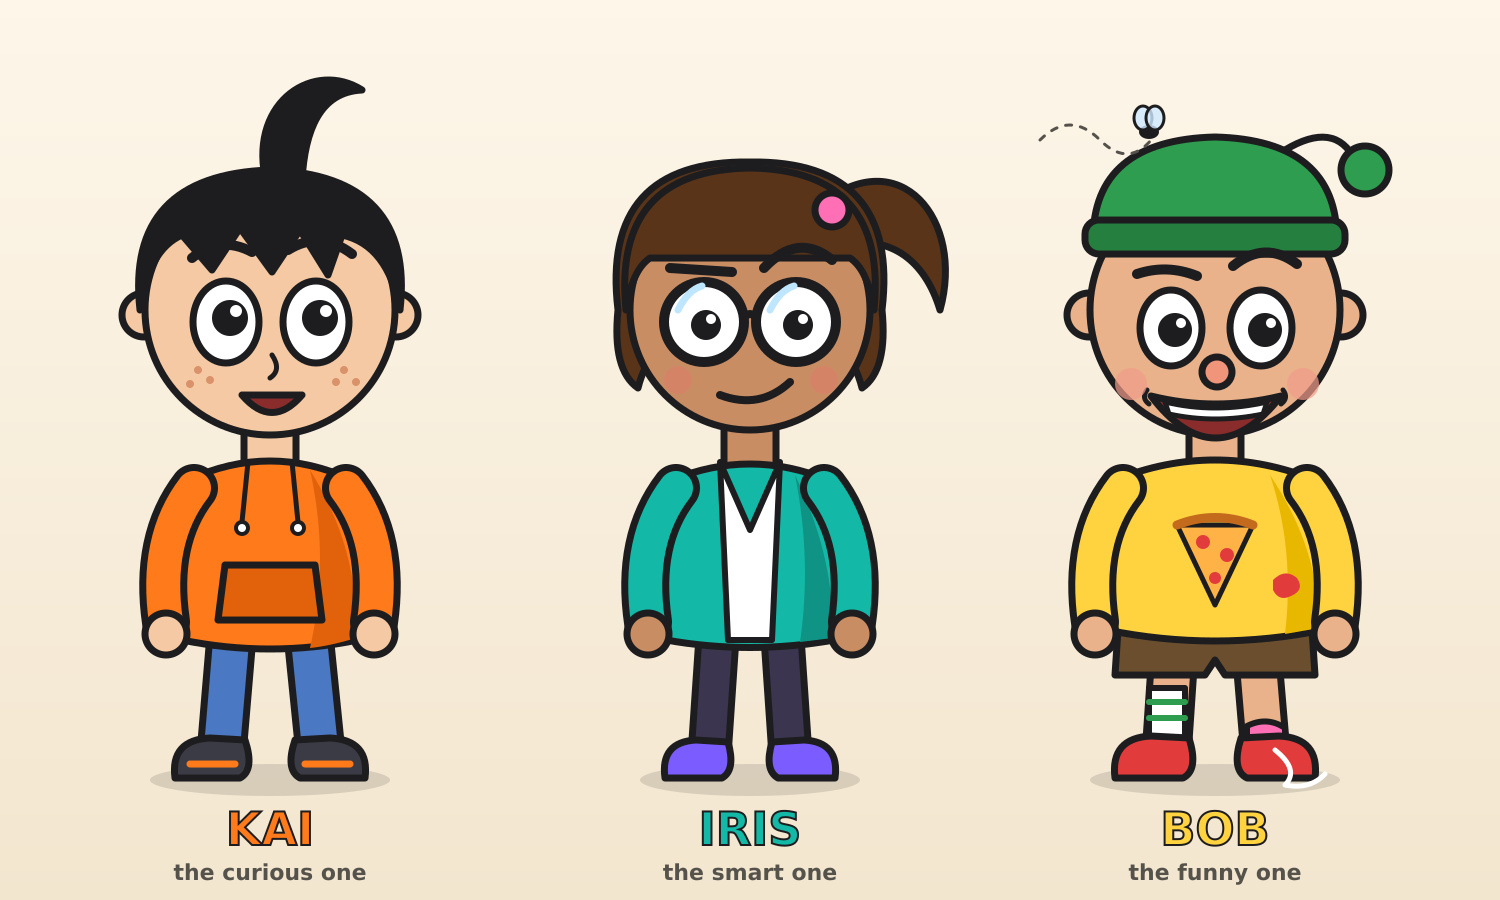
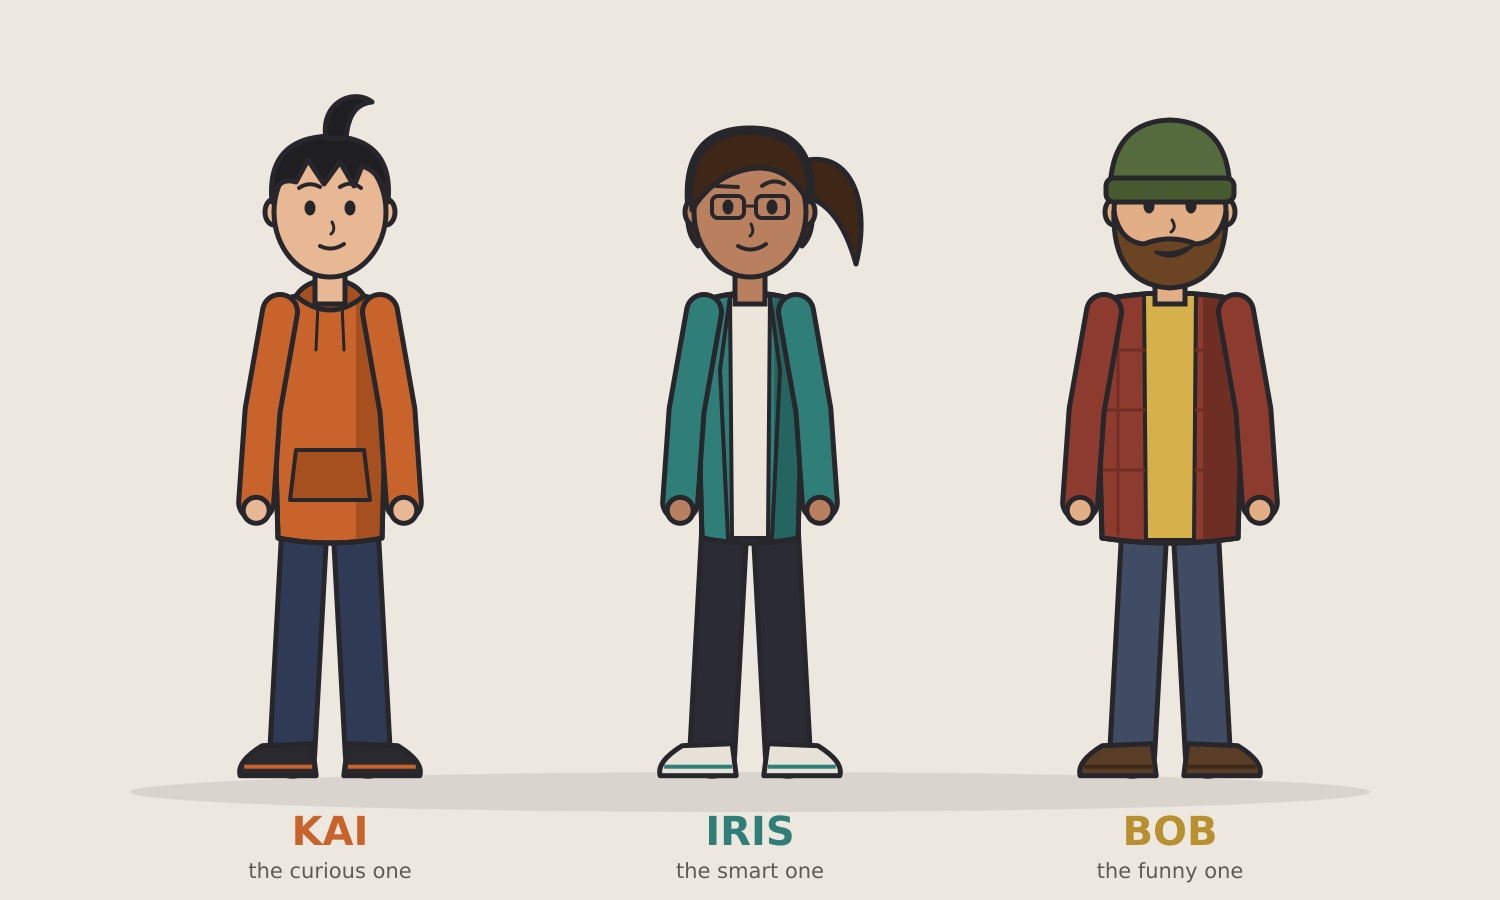
Adult redesign of the trio, drawn by code
Claude-Session: https://claude.ai/code/session_012EPCorERkmRy7kAdAThfec

diff --git a/maker/characters.py b/maker/characters.py
@@ -1,0 +1,188 @@
+"""Draw the main cast as SVG, from one definition per character.
+
+Every scene uses this same code, so KAI, IRIS and BOB always look identical.
+Poses only move the arms and legs; faces, hair and clothes never change.
+
+Usage:  python -m maker.characters out.svg      (draws the cast line-up)
+"""
+from __future__ import annotations
+
+import math
+import sys
+
+INK = "#26262b"      # outline colour
+LW = 5               # outline width
+
+CAST = {
+    "KAI": {
+        "role": "the curious one",
+        "skin": "#e8b894", "hair": "#1f1f22",
+        "top": "#c8642b", "top_shade": "#a6501f",
+        "pants": "#2f3b55", "shoes": "#2a2a2e", "shoe_accent": "#c8642b",
+        "half_w": 58, "label": "#c8642b",
+    },
+    "IRIS": {
+        "role": "the smart one",
+        "skin": "#b98060", "hair": "#3e2716",
+        "top": "#2f7f78", "top_shade": "#25655f", "inner": "#ece6da",
+        "pants": "#2b2b33", "shoes": "#e7e2d8", "shoe_accent": "#2f7f78",
+        "half_w": 54, "label": "#2f7f78",
+    },
+    "BOB": {
+        "role": "the funny one",
+        "skin": "#e2ae86", "hair": "#6b4423",
+        "top": "#8c3b2e", "top_shade": "#6f2e24", "inner": "#d6b04a",
+        "beanie": "#556b3d", "beanie_band": "#46592f",
+        "pants": "#3f4c63", "shoes": "#5a3d26", "shoe_accent": "#3b2818",
+        "half_w": 74, "label": "#b8902f",
+    },
+}
+
+# Pose = joint angles in degrees (0 = straight down, positive = outward from body).
+POSES = {
+    "stand": {"upper": 10, "fore": 4, "hip": 3},
+}
+
+
+def _limb(points, colour, width):
+    d = "M" + " L".join(f"{x:.1f} {y:.1f}" for x, y in points)
+    return (f'<path d="{d}" fill="none" stroke="{INK}" stroke-width="{width + 2 * LW}" '
+            f'stroke-linecap="round" stroke-linejoin="round"/>'
+            f'<path d="{d}" fill="none" stroke="{colour}" stroke-width="{width}" '
+            f'stroke-linecap="round" stroke-linejoin="round"/>')
+
+
+def _arm(side, c, pose):
+    sx, sy = side * (c["half_w"] - 8), -478
+    a1 = math.radians(pose["upper"])
+    ex, ey = sx + side * 100 * math.sin(a1), sy + 100 * math.cos(a1)
+    a2 = math.radians(pose["fore"])
+    hx, hy = ex + side * 92 * math.sin(a2), ey + 92 * math.cos(a2)
+    return (_limb([(sx, sy), (ex, ey), (hx, hy)], c["top"], 30)
+            + f'<circle cx="{hx:.1f}" cy="{hy + 8:.1f}" r="13" fill="{c["skin"]}" stroke="{INK}" stroke-width="{LW}"/>')
+
+
+def _leg(side, c, pose):
+    hx, hy = side * 26, -255
+    a = math.radians(pose["hip"])
+    fx, fy = hx + side * 225 * math.sin(a), hy + 225 * math.cos(a)
+    shoe = (f'<path d="M{fx - side * 20:.1f} {fy - 16:.1f} L{fx + side * 30:.1f} {fy - 14:.1f} '
+            f'Q{fx + side * 56:.1f} {fy + 2:.1f} {fx + side * 52:.1f} {fy + 16:.1f} '
+            f'L{fx - side * 24:.1f} {fy + 16:.1f} Z" fill="{c["shoes"]}" stroke="{INK}" '
+            f'stroke-width="{LW}" stroke-linejoin="round"/>'
+            f'<path d="M{fx - side * 20:.1f} {fy + 7:.1f} L{fx + side * 48:.1f} {fy + 7:.1f}" '
+            f'stroke="{c["shoe_accent"]}" stroke-width="4"/>')
+    return _limb([(hx, hy), (fx, fy - 6)], c["pants"], 40) + shoe
+
+
+def _torso(c):
+    w = c["half_w"]
+    body = (f"M{-w + 16} -492 Q{-w} -490 {-w} -470 L{-w + 6} -252 Q0 -242 {w - 6} -252 "
+            f"L{w} -470 Q{w} -490 {w - 16} -492 Q0 -502 {-w + 16} -492 Z")
+    shade = f"M{w * 0.45:.0f} -496 Q{w} -490 {w} -470 L{w - 6} -252 Q{w * 0.6:.0f} -248 {w * 0.45:.0f} -247 Z"
+    return (f'<path d="{body}" fill="{c["top"]}" stroke="{INK}" stroke-width="{LW}" stroke-linejoin="round"/>'
+            f'<path d="{shade}" fill="{c["top_shade"]}"/>'
+            f'<path d="{body}" fill="none" stroke="{INK}" stroke-width="{LW}" stroke-linejoin="round"/>')
+
+
+def _eyes(dx=20, y=-582):
+    return "".join(f'<ellipse cx="{s * dx}" cy="{y}" rx="5.5" ry="7.5" fill="{INK}"/>' for s in (-1, 1))
+
+
+def _line(d, w=4):
+    return f'<path d="{d}" fill="none" stroke="{INK}" stroke-width="{w}" stroke-linecap="round" stroke-linejoin="round"/>'
+
+
+def _head(c, extra_back="", extra_front=""):
+    s = c["skin"]
+    return (extra_back
+            + f'<rect x="-15" y="-522" width="30" height="36" fill="{s}" stroke="{INK}" stroke-width="{LW}"/>'
+            + "".join(f'<ellipse cx="{x}" cy="-578" rx="9" ry="13" fill="{s}" stroke="{INK}" stroke-width="{LW}"/>' for x in (-56, 56))
+            + f'<ellipse cx="0" cy="-578" rx="56" ry="65" fill="{s}" stroke="{INK}" stroke-width="{LW}"/>'
+            + extra_front)
+
+
+def draw_kai(c, pose):
+    hood = (f'<path d="M-34 -494 Q0 -466 34 -494 Q24 -510 0 -510 Q-24 -510 -34 -494 Z" '
+            f'fill="{c["top_shade"]}" stroke="{INK}" stroke-width="{LW}" stroke-linejoin="round"/>')
+    strings = _line("M-12 -486 L-14 -440 M12 -486 L14 -440", 3)
+    pocket = (f'<path d="M-34 -340 L34 -340 L40 -290 L-40 -290 Z" fill="{c["top_shade"]}" '
+              f'stroke="{INK}" stroke-width="4" stroke-linejoin="round"/>')
+    hair = (f'<path d="M-58 -588 Q-64 -652 0 -654 Q64 -652 58 -588 Q52 -618 32 -624 L24 -604 L10 -628 '
+            f'L-6 -606 L-22 -630 L-34 -608 Q-54 -614 -58 -588 Z" fill="{c["hair"]}" stroke="{INK}" '
+            f'stroke-width="{LW}" stroke-linejoin="round"/>'
+            f'<path d="M-4 -652 C-10 -688 24 -702 42 -688 C24 -686 18 -672 16 -652 Z" fill="{c["hair"]}" '
+            f'stroke="{INK}" stroke-width="{LW}" stroke-linejoin="round"/>')
+    face = (_eyes() + _line("M-31 -602 Q-21 -609 -10 -603") + _line("M10 -603 Q21 -610 31 -602")
+            + _line("M2 -568 Q6 -560 1 -556", 3)
+            + _line("M-10 -544 Q2 -538 14 -546"))
+    return (_leg(-1, c, pose) + _leg(1, c, pose) + _torso(c) + hood + strings + pocket
+            + _arm(-1, c, pose) + _arm(1, c, pose) + _head(c, extra_front=hair + face))
+
+
+def draw_iris(c, pose):
+    inner = (f'<path d="M-20 -494 L20 -494 L18 -252 L-18 -252 Z" fill="{c["inner"]}" stroke="{INK}" '
+             f'stroke-width="4"/>' + _line("M-20 -494 L-30 -420 L-22 -252 M20 -494 L30 -420 L22 -252", 4))
+    back = (f'<path d="M44 -626 C100 -648 122 -588 106 -526 C96 -562 80 -588 54 -594 Z" fill="{c["hair"]}" '
+            f'stroke="{INK}" stroke-width="{LW}" stroke-linejoin="round"/>'
+            f'<path d="M-62 -580 Q-70 -662 0 -662 Q70 -662 62 -580 Q64 -556 52 -544 Q46 -566 40 -578 L-40 -578 Q-46 -566 -52 -544 Q-64 -556 -62 -580 Z" fill="{c["hair"]}" '
+            f'stroke="{INK}" stroke-width="{LW}" stroke-linejoin="round"/>')
+    fringe = (f'<path d="M-58 -580 Q-66 -656 0 -658 Q64 -656 58 -588 Q36 -630 -6 -620 Q-38 -612 -58 -580 Z" '
+              f'fill="{c["hair"]}" stroke="{INK}" stroke-width="{LW}" stroke-linejoin="round"/>')
+    glasses = "".join(f'<rect x="{x}" y="-594" width="32" height="22" rx="6" fill="none" '
+                      f'stroke="{INK}" stroke-width="4"/>' for x in (-38, 6)) + _line("M-6 -584 L6 -584", 3)
+    face = (_eyes(22, -583) + glasses + _line("M-34 -604 L-12 -603") + _line("M12 -604 Q23 -612 34 -606")
+            + _line("M1 -566 Q5 -558 0 -554", 3) + _line("M-12 -544 Q2 -536 16 -546"))
+    return (_leg(-1, c, pose) + _leg(1, c, pose) + _torso(c) + inner
+            + _arm(-1, c, pose) + _arm(1, c, pose) + _head(c, back, fringe + face))
+
+
+def draw_bob(c, pose):
+    w = c["half_w"]
+    tee = f'<path d="M-26 -496 L26 -496 L24 -250 L-24 -250 Z" fill="{c["inner"]}" stroke="{INK}" stroke-width="4"/>'
+    checks = "".join(_line(f"M{-w + 4} {y} L{-26} {y} M26 {y} L{w - 4} {y}", 3).replace(INK, c["top_shade"])
+                     for y in (-440, -380, -320))
+    checks += "".join(_line(f"M{x} -488 L{x} -256", 3).replace(INK, c["top_shade"]) for x in (-w + 22, w - 22))
+    beanie = (f'<path d="M-60 -596 Q-60 -668 0 -670 Q60 -668 60 -596 Z" fill="{c["beanie"]}" stroke="{INK}" '
+              f'stroke-width="{LW}"/>'
+              f'<rect x="-64" y="-612" width="128" height="24" rx="8" fill="{c["beanie_band"]}" stroke="{INK}" '
+              f'stroke-width="{LW}"/>')
+    beard = (f'<path d="M-56 -578 Q-58 -506 0 -502 Q58 -506 56 -578 Q50 -548 26 -546 Q0 -556 -26 -546 '
+             f'Q-50 -548 -56 -578 Z" fill="{c["hair"]}" stroke="{INK}" stroke-width="{LW}" stroke-linejoin="round"/>')
+    mouth = (f'<path d="M-14 -538 Q4 -528 22 -544 Q4 -534 -14 -538 Z" fill="#ffffff" stroke="{INK}" '
+             f'stroke-width="3.5" stroke-linejoin="round"/>')
+    face = (_eyes(21, -584) + _line("M-32 -603 L-11 -601") + _line("M11 -605 Q22 -617 33 -609")
+            + _line("M2 -570 Q7 -562 1 -558", 3) + beard + mouth)
+    return (_leg(-1, c, pose) + _leg(1, c, pose) + _torso(c) + tee + checks
+            + _arm(-1, c, pose) + _arm(1, c, pose) + _head(c, extra_front=face + beanie))
+
+
+DRAW = {"KAI": draw_kai, "IRIS": draw_iris, "BOB": draw_bob}
+
+
+def character(name: str, x: float, y: float, scale: float = 1.0, pose: str = "stand") -> str:
+    """SVG group for one character, feet at (x, y)."""
+    c = CAST[name]
+    return f'<g transform="translate({x},{y}) scale({scale})">{DRAW[name](c, POSES[pose])}</g>'
+
+
+def lineup() -> str:
+    parts = ['<svg xmlns="http://www.w3.org/2000/svg" viewBox="0 0 1500 900" width="1500" height="900">',
+             '<rect width="1500" height="900" fill="#ece7df"/>',
+             '<ellipse cx="750" cy="792" rx="620" ry="20" fill="#000" opacity=".08"/>']
+    for x, name in ((330, "KAI"), (750, "IRIS"), (1170, "BOB")):
+        c = CAST[name]
+        parts.append(character(name, x, 790))
+        parts.append(f'<text x="{x}" y="845" text-anchor="middle" font-family="DejaVu Sans, Arial" '
+                     f'font-weight="bold" font-size="40" fill="{c["label"]}">{name}</text>'
+                     f'<text x="{x}" y="878" text-anchor="middle" font-family="DejaVu Sans, Arial" '
+                     f'font-size="21" fill="#5f5a52">{c["role"]}</text>')
+    parts.append("</svg>")
+    return "\n".join(parts)
+
+
+if __name__ == "__main__":
+    out = sys.argv[1] if len(sys.argv) > 1 else "characters/trio.svg"
+    with open(out, "w") as f:
+        f.write(lineup())
+    print("wrote", out)

diff --git a/characters/cast.md b/characters/cast.md
@@ -1,19 +1,23 @@
 # Cast
 
-Three modern friends who end up in a different time or place in every video.
-Same look, same voices, same personalities, always. Only the world around them changes.
+Three friends in their twenties who end up in a different time or place in every video.
+Made for an adult audience (18+): realistic proportions, simple faces, muted colours.
+The humour comes from what they say, not from looking cartoonish.
+
+All three are drawn by code (`maker/characters.py`), so they look identical in every scene.
+To redraw the line-up: `python -m maker.characters characters/trio.svg`
 
 | | KAI | IRIS | BOB |
 |---|---|---|---|
-| Role | The curious one: asks what the viewer is thinking | The smart one: explains, sometimes overconfident | The funny one: reacts, jokes, gets into trouble |
-| Never changes | Spiky black hair with a giant cowlick, freckles, huge eyes, orange hoodie, blue jeans, dark grey sneakers with orange stripe | Blunt bangs + ponytail with pink scrunchie, big round glasses, teal jacket over white tee | Green beanie with a floppy pom-pom, friendly eyes, one eyebrow raised like he's about to joke, big cheeky grin, yellow pizza t-shirt with a ketchup stain, brown shorts, mismatched socks, one untied shoelace, a fly follows him |
-| Colour | Orange #FF7A1A | Teal #14B8A6 | Yellow #FFD23F |
-| Typical line | "Wait, why is everyone wearing bedsheets?" | "Those are togas. And we have 24 hours." | "Bread for breakfast? Fine." |
-
-Silhouettes are different on purpose (spiky / ponytail / round with beanie),
-so each one is recognisable in a split second, even small on a phone.
+| Role | The curious one: asks what the viewer is thinking | The smart one: explains, sometimes overconfident | The funny one: dry jokes, reacts, gets into trouble |
+| Never changes | Messy black hair with a cowlick, burnt-orange hoodie with pocket, dark jeans, dark sneakers | Dark brown ponytail, rectangular glasses, teal jacket over white tee, black jeans, white sneakers | Olive beanie, brown beard, red flannel shirt open over a mustard tee, blue jeans, brown boots, bigger build |
+| Colour | Burnt orange #C8642B | Teal #2F7F78 | Red flannel #8C3B2E / mustard #D6B04A |
+| Typical line | "Wait, why is everyone wearing bedsheets?" | "Those are togas. And we have 24 hours." | "Great. I'm going to die in a bedsheet." |
 
 This is the default standing pose: arms relaxed, no props.
-Props and actions (holding, pointing, eating) belong to scenes, never to the character itself.
+Props and actions (holding, pointing, running) belong to scenes, never to the character itself.
+
+Silhouettes are different on purpose (cowlick / ponytail / beanie + beard and wider build),
+so each one is recognisable in a split second, even small on a phone.
 
 Backup characters are added to this file when the first story needs them.
